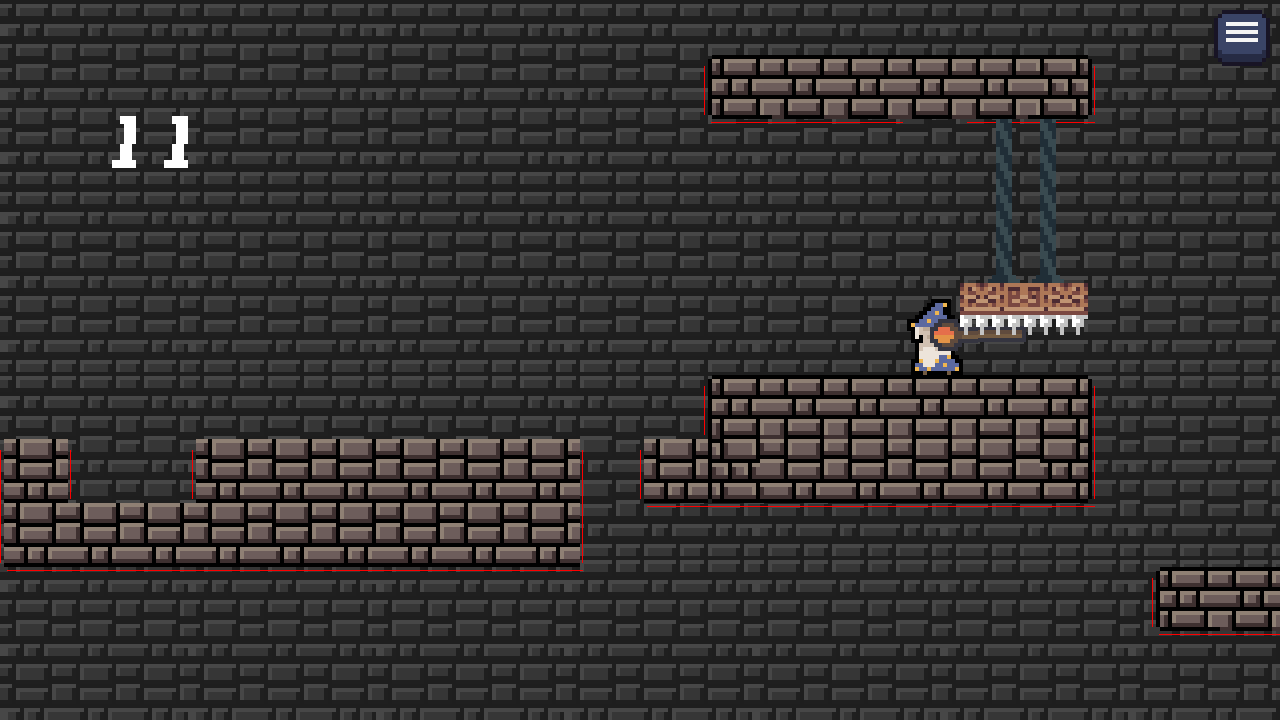
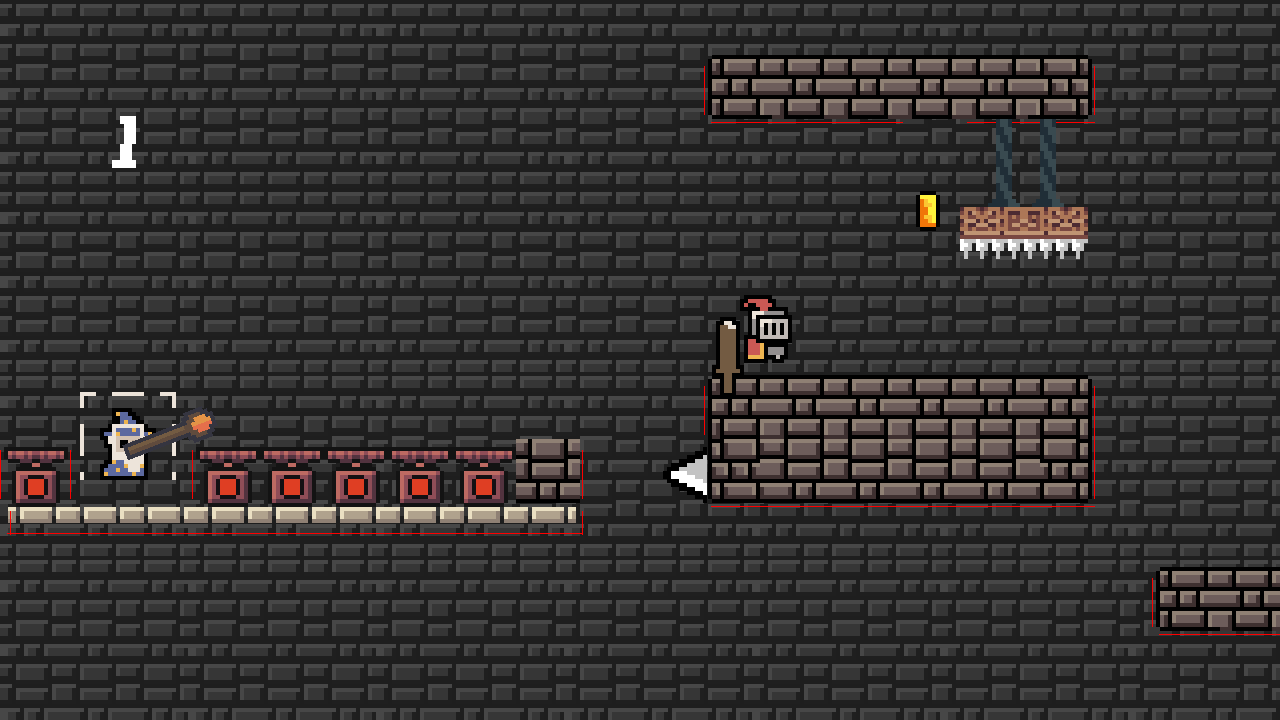
Made things buyable and fixed save system

diff --git a/assets/scripts/shop.py b/assets/scripts/shop.py
@@ -1,5 +1,42 @@
 from assets.scripts.core_funcs import *
 from assets.scripts.button import *
+def buy(args):
+    renderer = args[0]
+    price = args[1]
+    if args[2] == 0:
+        if renderer.queue[0].coins >= price:
+            renderer.queue[0].tiles_unlocked.append(117) 
+            renderer.queue[0].tiles_unlocked.append(129)
+            renderer.queue[0].tiles_unlocked.append(138)
+            renderer.queue[0].tiles_unlocked.append(139)
+            renderer.queue[0].coins -= price
+            print("purchased")
+        else:
+            print("HAHA YOU'RE POOR")
+    elif args[2] == 1:
+        if renderer.queue[0].coins >= price:
+            renderer.queue[0].tiles_unlocked.append(118) 
+            renderer.queue[0].tiles_unlocked.append(135)
+            renderer.queue[0].tiles_unlocked.append(136)
+            renderer.queue[0].tiles_unlocked.append(137)
+            renderer.queue[0].coins -= price
+            print("purchased")
+        else:
+            print("HAHA YOU'RE POOR")
+    elif args[2] == 2:
+        if renderer.queue[0].coins >= price:
+            renderer.queue[0].tiles_unlocked.append(121) 
+            renderer.queue[0].coins -= price
+            print("purchased")
+        else:
+            print("HAHA YOU'RE POOR")
+    elif args[2] == 3:
+        if renderer.queue[0].coins >= price:
+            renderer.queue[0].tiles_unlocked.append(116) 
+            renderer.queue[0].coins -= price
+            print("purchased")
+        else:
+            print("HAHA YOU'RE POOR")
 class Shop:
     def  __init__(self, renderer):
         self.tiles = [117, 118, 121, 116]
@@ -23,13 +60,19 @@ class Shop:
         self.tiles_unlocked = [115]
         self.tile_masks = [pygame.mask.from_surface(i) for i in self.tile_images]
         self.tile_positions = []
-        self.buttons = []
         self.font : pygame.font.Font = renderer.font
         self.item_names = [self.font.render(self.tile_names_dict[self.tiles[i]], False, [255, 255, 255], [0, 0, 0]) for i in range(len(self.tiles))]
         [item.set_colorkey([0, 0, 0]) for item in self.item_names]
         self.firebox_frame = 0
         self.spike_frame = 0
         self.delay = 0
+        self.buttons = []
+        self.prices = [1, 10, 25, 30]
+        self.add_heights = [96, 96, 88, 152]
+        self.button_sprites = SpriteSheet(scale_image(pygame.image.load("assets/Spritesheets/buy_buttons.png").convert()), [2, 1], [255, 255, 255])
+        self.subtract_x = [(self.button_sprites.sheet[0][0].get_width()-self.tile_images[i].get_width())/2 for i in range(len(self.tile_images))]
+        self.buy_text = self.font.render("Buy", False, [254, 255, 255], [0, 0, 0])
+        self.buy_text.set_colorkey([0, 0, 0])
     def update(self, renderer):
         x = ((1280-self.bg_tex.get_width())/2)+128
         y = -128
@@ -78,8 +121,7 @@ class Shop:
                 else:
                     win.blit(self.item_names[i], [x-8-self.tile_images[i].get_width()/2, y+72])
             x += 192
-        if self.buttons == []:
-                pass
+        
         for i in range(len(self.tile_masks)):
             if cursor_mask.overlap(self.tile_masks[i], (self.tile_positions[i][0]-pygame.mouse.get_pos()[0], self.tile_positions[i][1]-pygame.mouse.get_pos()[1])) != None:
                 if i == len(self.tile_images)-1:
@@ -104,6 +146,12 @@ class Shop:
                                 self.spike_frame = 0
                 else:
                     win.blit(self.tile_images[i], self.tile_positions[i])
+        if self.buttons == []:
+            self.buttons = [Button([self.tile_positions[i][0]-self.subtract_x[i], self.tile_positions[i][1]+self.add_heights[i]], self.button_sprites.sheet[0], [buy, [renderer, self.prices[i], i]], win) for i in range(len(self.tile_positions))]
+            [self.buttons[i].textures[0].blit(self.buy_text, [(self.buttons[i].textures[0].get_width()-self.buy_text.get_width())/2, 12]) for i in range(len(self.buttons))]
+            [self.buttons[i].textures[1].blit(self.buy_text, [(self.buttons[i].textures[1].get_width()-self.buy_text.get_width())/2, 16]) for i in range(len(self.buttons))]
+        else:
+            [button.update(renderer) for button in self.buttons]
                 
                 
         

diff --git a/assets/scripts/game.py b/assets/scripts/game.py
@@ -187,7 +187,7 @@ class Game:
                                 obj.is_hovered = False
                             else:
                                 obj.is_hovered = True
-                self.small_menu_button.update()
+                self.small_menu_button.update(self.renderer)
             if not self.playing:
                 if self.spare_surf == None:
                     pygame.image.save(win, "win.png")
@@ -195,9 +195,9 @@ class Game:
                 win.blit(self.spare_surf, (0, 0))
                 win.blit(self.renderer.surf, (0, 0))
                 for button in self.buttons:
-                    button.update()
-                self.back.update()
-                self.back_button_2.update()
+                    button.update(self.renderer)
+                self.back.update(self.renderer)
+                self.back_button_2.update(self.renderer)
                 win.blit(self.restart_text, [self.buttons[0].pos[0]+10, self.buttons[0].pos[1]+15+(4*self.buttons[0].current)])
                 win.blit(self.set_text, [self.buttons[1].pos[0]+5, self.buttons[1].pos[1]+15+(4*self.buttons[1].current)])
                 win.blit(self.menu_text, [center_pos(self.button_sprites.get([0, 0]))[0]+15, center_pos(self.button_sprites.get([0, 0]))[1]+10+(2*self.button_sprites.get([0, 0]).get_height())+(4*self.back.current)])
@@ -228,7 +228,7 @@ class Game:
         elif self.screen == 0:
             win.blit(self.renderer.background, (0, 0))
             for button in self.buttons:
-                button.update()
+                button.update(self.renderer)
             win.blit(self.start_text, [self.buttons[0].pos[0]+10, self.buttons[0].pos[1]+10+(4*self.buttons[0].current)])
             win.blit(self.set_text, [self.buttons[1].pos[0]+5, self.buttons[1].pos[1]+15+(4*self.buttons[1].current)])
             win.blit(self.shop_text, [self.buttons[2].pos[0]+(self.buttons[2].textures[0].get_width()-self.shop_text.get_width())/2, self.buttons[2].pos[1]+15+(4*self.buttons[2].current)])
@@ -238,9 +238,9 @@ class Game:
             self.settings[0].update()
             #self.settings[1].update()
             if self.playing:
-                self.settings[2].update()
+                self.settings[2].update(self.renderer)
             else:
-                self.back_button.update()
+                self.back_button.update(self.renderer)
             win.blit(self.vol_text, [center_pos(self.button_sprites.get([0, 0]))[0]-(self.vol_text.get_width()/2), center_pos(self.button_sprites.get([0, 0]))[1]+(-2*self.button_sprites.get([0, 0]).get_height())])
             #win.blit(self.fps_text, [center_pos(self.button_sprites.get([0, 0]))[0]-(self.fps_text.get_width()/1.5), center_pos(self.button_sprites.get([0, 0]))[1]+(-1*self.button_sprites.get([0, 0]).get_height())])
             if self.playing:
@@ -254,7 +254,7 @@ class Game:
             #self.settings[1].update()
             
             self.shop.update(self.renderer)
-            self.back_button_.update()
+            self.back_button_.update(self.renderer)
             win.blit(self.back_text, [center_pos(self.button_sprites.get([0, 0]))[0]+15, center_pos(self.button_sprites.get([0, 0]))[1]+(5.2*self.button_sprites.get([0, 0]).get_height())+(4*self.back_button_.current)])
         win.blit(self.cursor_img_, cursor_pos)
         if self.auto_save and ((self.cycles%20)==0):

diff --git a/assets/scripts/save_system.py b/assets/scripts/save_system.py
@@ -16,7 +16,7 @@ class SaveSystem:
                 if len(renderer.queue) > 0:
                     renderer.queue[0].coins = int(saved["coins"])
                     renderer.queue[0].deaths = int(saved["deaths"])
-                    #renderer.queue[0].tile = int(saved["tile"])
+                    renderer.queue[0].tile_unlocked = [saved["tiles_unlocked"][i]*1 for i in range(len(saved["tiles_unlocked"]))]
                     renderer.coin_channel.set_volume(float(saved["volume"]))
                     renderer.queue[0].channel.set_volume(float(saved["volume"]))
                     renderer.def_frame = int(saved["fps"])
@@ -30,7 +30,7 @@ class SaveSystem:
                 if len(renderer.queue) > 0:
                     renderer.queue[0].coins = int(saved["coins"])
                     renderer.queue[0].deaths = int(saved["deaths"])
-                    #renderer.queue[0].tile = int(saved["tile"])
+                    renderer.queue[0].tile_unlocked = [saved["tiles_unlocked"][i]*1 for i in range(len(saved["tiles_unlocked"]))]
                     renderer.coin_channel.set_volume(float(saved["volume"]))
                     renderer.queue[0].channel.set_volume(float(saved["volume"]))
                     renderer.def_frame = int(saved["fps"])
@@ -41,7 +41,13 @@ class SaveSystem:
             open(self.file_path, "w").close()
     def update(self, renderer):
         #if (not renderer.queue[0].is_alive):
-        dat = '{"coins":'+str(renderer.queue[0].coins)+","+'"level":'+str(renderer.level)+","+'"deaths":'+str(renderer.queue[0].deaths)+","+'"tile":'+str(renderer.queue[0].tile)+","+'"volume":'+str(renderer.coin_channel.get_volume())+","+'"fps":'+str(renderer.def_frame)+"}"
+        tiles_unlocked_list = "["
+        for tile in renderer.queue[0].tiles_unlocked:
+            if tile != renderer.queue[0].tiles_unlocked[len(renderer.queue[0].tiles_unlocked)-1]:
+                tiles_unlocked_list = tiles_unlocked_list + str(tile) + ", "
+            else:
+                tiles_unlocked_list = tiles_unlocked_list + str(tile) + "]"
+        dat = '{"coins":'+str(renderer.queue[0].coins)+","+'"level":'+str(renderer.level)+","+'"deaths":'+str(renderer.queue[0].deaths)+","+'"tiles_unlocked":'+tiles_unlocked_list+","+'"volume":'+str(renderer.coin_channel.get_volume())+","+'"fps":'+str(renderer.def_frame)+"}"
         b = base64.b64encode(bytes(dat, 'utf-8'))
         base64_str = b.decode('utf-8')
         if web:

diff --git a/assets/scripts/button.py b/assets/scripts/button.py
@@ -11,7 +11,8 @@ class Button():
         self.click_delay = 0;
         self.max_delay = 500;
         self.delaying = False;
-    def update(self):
+        self.clicked = False
+    def update(self, renderer):
         self.current = 0;
         if self.delaying:
             self.click_delay += 1;
@@ -19,9 +20,12 @@ class Button():
             self.delaying = False;
         if self.rect.collidepoint(pygame.mouse.get_pos()):
             if pygame.mouse.get_pressed()[0]:
-                if not self.delaying:
+                if not self.delaying and not self.clicked:
                     self.onlick(self.args);
-                    self.args.renderer.coin_channel.play(button_sound)
+                    renderer.coin_channel.play(button_sound)
+                    self.clicked = True
+            else:
+                self.clicked = False
             self.current = 1;
         self.screen.blit(self.textures[self.current], self.pos);
         self.rect = self.textures[self.current].get_rect(topleft=self.pos);

diff --git a/assets/scripts/player.py b/assets/scripts/player.py
@@ -34,7 +34,7 @@ class Player:
         self.shots = []
         self.particle_surf = None
         self.just_shot = False
-        self.tiles_unlocked = [116]
+        self.tiles_unlocked = [115]
         self.staffs = SpriteSheet(scale_image(pygame.image.load("assets/Spritesheets/staffs.png").convert()), [5, 1], [255, 255, 255])
         #self.walk_particles = Particles(win, )
         if not web:

diff --git a/assets/scripts/level_renderer.py b/assets/scripts/level_renderer.py
@@ -453,7 +453,7 @@ class LevelRenderer:
         self.bullet_manager.update_physics(self)
         self.bullet_manager.update_graphics(self)
         
-        if not web:
-            print(self.clock.get_fps())
+        #if not web:
+            #print(self.clock.get_fps())
 
         
